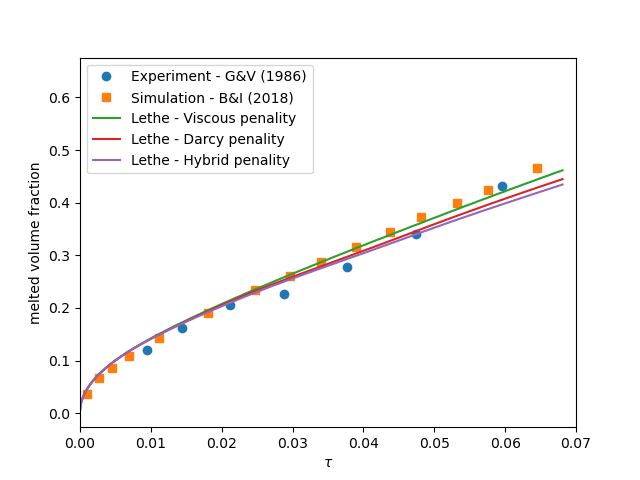
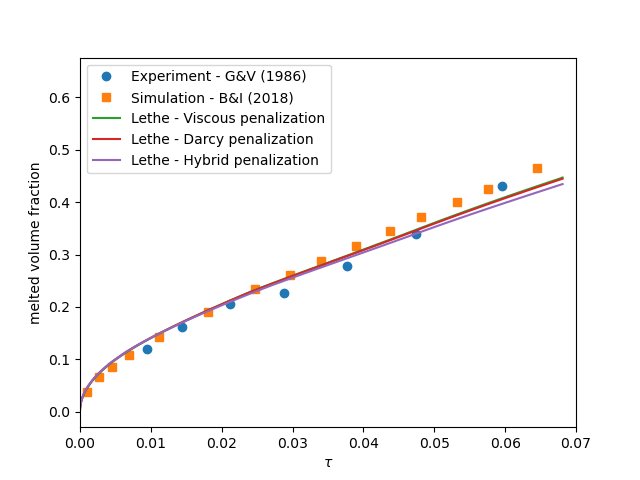
Update penalty everywhere

diff --git a/source/solvers/navier_stokes_assemblers.cc b/source/solvers/navier_stokes_assemblers.cc
@@ -1763,15 +1763,15 @@ PhaseChangeDarcyAssembly<dim>::assemble_matrix(
                             (phase_change_parameters.T_liquidus -
                              phase_change_parameters.T_solidus),
                           0.));
-      double darcy_penality =
-        phase_change_parameters.penality_l * liquid_fraction +
-        (1. - liquid_fraction) * phase_change_parameters.penality_s;
+      double darcy_penalty=
+        phase_change_parameters.penalty_l * liquid_fraction +
+        (1. - liquid_fraction) * phase_change_parameters.penalty_s;
 
-      strong_residual[q] += darcy_penality * velocities[q];
+      strong_residual[q] += darcy_penalty * velocities[q];
 
       for (unsigned int j = 0; j < n_dofs; ++j)
         {
-          strong_jacobian[q][j] += darcy_penality * scratch_data.phi_u[q][j];
+          strong_jacobian[q][j] += darcy_penalty * scratch_data.phi_u[q][j];
         }
 
       for (unsigned int i = 0; i < n_dofs; ++i)
@@ -1780,7 +1780,7 @@ PhaseChangeDarcyAssembly<dim>::assemble_matrix(
           for (unsigned int j = 0; j < n_dofs; ++j)
             {
               const auto &phi_u_j = scratch_data.phi_u[q][j];
-              local_matrix(i, j) += darcy_penality * phi_u_i * phi_u_j * JxW;
+              local_matrix(i, j) += darcy_penalty * phi_u_i * phi_u_j * JxW;
             }
         }
     }
@@ -1820,11 +1820,11 @@ PhaseChangeDarcyAssembly<dim>::assemble_rhs(
                             (phase_change_parameters.T_liquidus -
                              phase_change_parameters.T_solidus),
                           0.));
-      double darcy_penality =
-        phase_change_parameters.penality_l * liquid_fraction +
-        (1. - liquid_fraction) * phase_change_parameters.penality_s;
+      double darcy_penalty =
+        phase_change_parameters.penalty_l * liquid_fraction +
+        (1. - liquid_fraction) * phase_change_parameters.penalty_s;
 
-      strong_residual[q] += darcy_penality * velocities[q];
+      strong_residual[q] += darcy_penalty * velocities[q];
 
       // Assembly of the right-hand side
       for (unsigned int i = 0; i < n_dofs; ++i)
@@ -1832,7 +1832,7 @@ PhaseChangeDarcyAssembly<dim>::assemble_rhs(
           const auto phi_u_i = scratch_data.phi_u[q][i];
 
           // Laplacian on the velocity terms
-          local_rhs(i) -= darcy_penality * velocities[q] * phi_u_i * JxW;
+          local_rhs(i) -= darcy_penalty * velocities[q] * phi_u_i * JxW;
         }
     }
 }

diff --git a/source/core/parameters.cc b/source/core/parameters.cc
@@ -587,8 +587,8 @@ namespace Parameters
       thermal_expansion_s *= dimensions.thermal_expansion_scaling;
 
       // Darcy permeability terms
-      penality_l = prm.get_double("Darcy penality liquid");
-      penality_s = prm.get_double("Darcy penality solid");
+      penalty_l = prm.get_double("Darcy penalty liquid");
+      penalty_s = prm.get_double("Darcy penalty solid");
     }
 
     Assert(T_liquidus > T_solidus,
@@ -656,15 +656,15 @@ namespace Parameters
                         Patterns::Double(),
                         "Kinematic viscosity of the solid phase");
 
-      prm.declare_entry("Darcy penality liquid",
+      prm.declare_entry("Darcy penalty liquid",
                         "0",
                         Patterns::Double(),
-                        "Darcy penality of the liquid phase");
+                        "Darcy penalty of the liquid phase");
 
-      prm.declare_entry("Darcy penality solid",
+      prm.declare_entry("Darcy penalty solid",
                         "0",
                         Patterns::Double(),
-                        "Darcy penality of the solid phase");
+                        "Darcy penalty of the solid phase");
     }
     prm.leave_subsection();
   }

diff --git a/include/core/parameters.h b/include/core/parameters.h
@@ -219,10 +219,10 @@ namespace Parameters
     double kinematic_viscosity_s;
 
     // Darcy permeability liquid - Units in 1/(s)
-    double penality_l;
+    double penalty_l;
 
     // Darcy permeabilitysolid - Units in 1/(s)
-    double penality_s;
+    double penalty_s;
 
     static void
     declare_parameters(ParameterHandler &prm);

diff --git a/doc/source/examples/multiphysics/melting-cavity/melting-cavity.rst b/doc/source/examples/multiphysics/melting-cavity/melting-cavity.rst
@@ -313,17 +313,17 @@ Furthermore, the ``phase change`` subsection within the physical properties but 
           set thermal expansion solid        = 0
     
           # Permeability of the liquid phase
-          set Darcy penality liquid         = 0
+          set Darcy penalty liquid         = 0
     
           # Permeability of the  solid phase
-          set Darcy penality solid          = 1e4
+          set Darcy penalty solid          = 1e4
         end
       end
     end
   
-Note that the viscosity of the liquid and the solid phase are now identical and that a very strong Darcy penality coefficient is applied on the solid phase to restrict its motion. A third approach would be to combine this Darcy term with the viscosity model used above, resulting in an hybrid approach.
+Note that the viscosity of the liquid and the solid phase are now identical and that a very strong Darcy penalty coefficient is applied on the solid phase to restrict its motion. A third approach would be to combine this Darcy term with the viscosity model used above, resulting in an hybrid approach.
 
-The following graph shows the evolution of the liquid fraction as a function of time using the viscous penality, Darcy penality and hybrid penality strategy. We see that the viscous penality tends to increase the amount of molten material. Whether or not this is a physical phenomenon cannot be assessed here.
+The following graph shows the evolution of the liquid fraction as a function of time using the viscous penalty, Darcy penalty and hybrid penalty strategy. We see that the viscous penalty tends to increase the amount of molten material. Whether or not this is a physical phenomenon cannot be assessed here.
 
 
 .. image:: images/comparison-melted-volume-fraction.png
